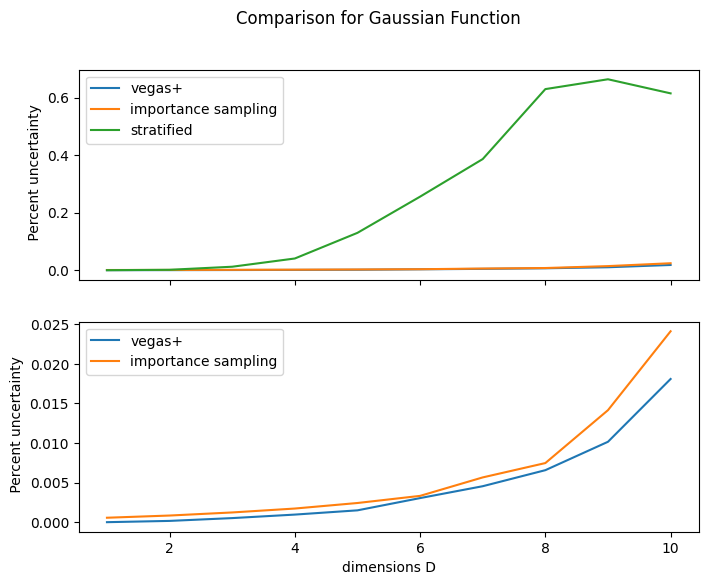
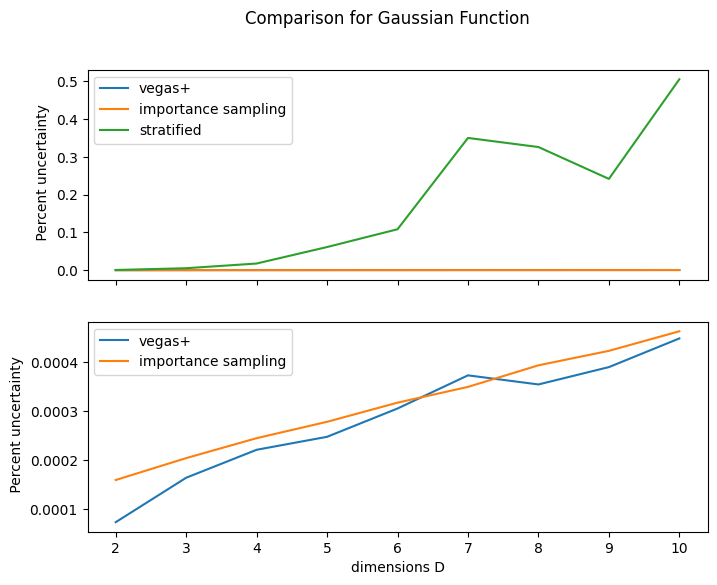
updated iterations for dims_test.py

diff --git a/dims_test.py b/dims_test.py
@@ -20,7 +20,7 @@ dim_max = 10
 # data set
 n_eval = 12000
 n_eval_testing = 11000
-n_iter = 10
+n_iter = 50
 n_iter_warmup = 5
 n_eval_warmup = 1e3
 
@@ -88,7 +88,7 @@ def make_plot(importance,stratified,vegas):
     fig, ax = plt.subplots(2,1,sharex=True,figsize=(8,6))
     
     plt.xlabel('dimension (D)')
-    fig.suptitle('Comparison for Rosenbrock Function')
+    fig.suptitle('Comparison for Gaussian Function')
 
     dims = [i for i in range(dim_min,dim_max+1)]
 
@@ -127,7 +127,7 @@ def make_plot(importance,stratified,vegas):
     if SHOW_PLOT:
         plt.show()
     else:
-        plt.savefig('rosen_dimensions.png',bbox_inches='tight')
+        plt.savefig('gauss_dimensions.png',bbox_inches='tight')
 
 def make_second_plot(importance,stratified,vegas):
     fig, ax = plt.subplots(2,1,sharex=True,figsize=(8,6))
@@ -143,7 +143,7 @@ def make_second_plot(importance,stratified,vegas):
 
     plt.xlabel('dimensions D')
     ax[0].set_ylabel(' Percent uncertainty')
-    fig.suptitle('Comparison for Rosenbrock Function')
+    fig.suptitle('Comparison for Gaussian Function')
     ax[0].legend()
 
     ax[1].plot(dims, perc_err_vegas,label="vegas+")
@@ -154,10 +154,10 @@ def make_second_plot(importance,stratified,vegas):
     if SHOW_PLOT:
         plt.show()
     else:
-        plt.savefig('rosen_dims_2.png',bbox_inches='tight')
+        plt.savefig('gauss_dims_2.png',bbox_inches='tight')
     
 if __name__ == '__main__':
 
-    importance, stratified, vegas = generate_simulation(rosen)
+    importance, stratified, vegas = generate_simulation(f)
     make_plot(importance,stratified,vegas)
     make_second_plot(importance,stratified,vegas)
